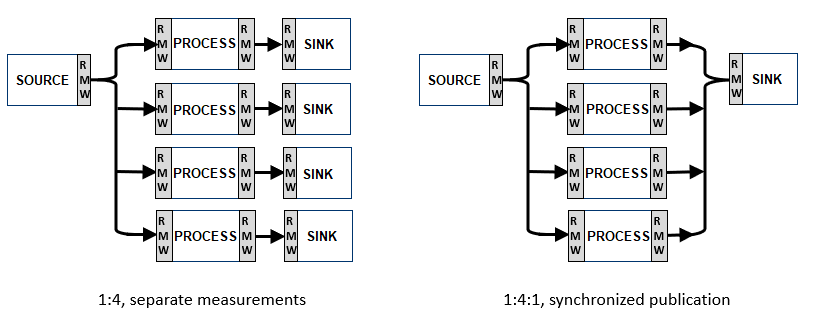
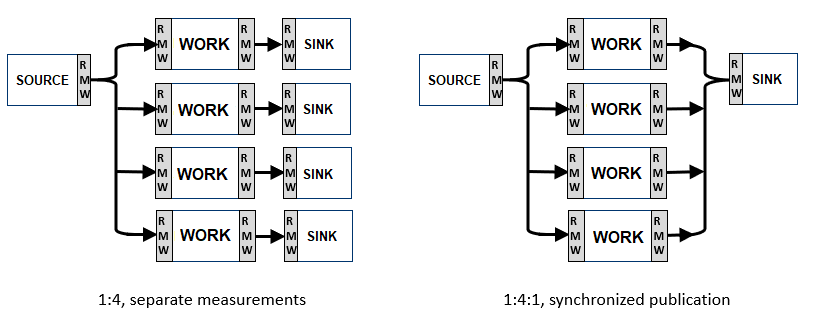
change name of process node to work

diff --git a/mp_latency/launch/mplat_par_3t3.py b/mp_latency/launch/mplat_par_3t3.py
@@ -1,82 +1,82 @@
-# This is a fan-out example of: 1 HEAD --> 3 THRU --> 3 TAIL nodes.
+# This is a fan-out example of: 1 SOURCE --> 3 WORK --> 3 SINK nodes.
 from launch import LaunchDescription
 from launch_ros.actions import Node
 import os
 
 # Set test values here (will need to get cmdLine values or somesuch)
 test_duration = '60'    # duration of test run, in seconds
-pub_frequency = '10'    # pubs per second from HEAD node (float32 value)
+pub_frequency = '10'    # pubs per second from SOURCE node (float32 value)
 rel_type = 'REL'         # reliability type (BE=best effort, anything else is reliable.)
 my_node = 0             # starting node ID
 data_type_suffix = '1kb'    # edit this to change data size in test
-exe_head = 'ipchead_' + data_type_suffix
-exe_thru = 'ipcthru_' + data_type_suffix
-exe_tail = 'ipctail_' + data_type_suffix
-rmw_type = os.environ.get('RMW_IMPLEMENTATION') # RMW type used for test (for TAIL node results)
+exe_source = 'ipcsource_' + data_type_suffix
+exe_work = 'ipcwork_' + data_type_suffix
+exe_sink = 'ipcsink_' + data_type_suffix
+rmw_type = os.environ.get('RMW_IMPLEMENTATION') # RMW type used for test (for SINK node results)
 
 def generate_launch_description():
     return LaunchDescription([
         Node(
             package='mp_latency',
             namespace='ipc_lat',
-            executable=exe_tail,
+            executable=exe_sink,
             output='screen',
-            # TAIL args: testDur, REL, pubFreq, totalNodes, fromTopic, rmwType, myCfgName
+            # SINK args: testDur, REL, pubFreq, totalNodes, fromTopic, rmwType, myCfgName
             arguments=[test_duration, rel_type, pub_frequency, '3', 'pt_profile_topic_1_2', rmw_type, 'h-3p-t1'],
-            name='tail1',
+            name='sink1',
         ),
         Node(
             package='mp_latency',
             namespace='ipc_lat',
-            executable=exe_tail,
+            executable=exe_sink,
             output='screen',
-            # TAIL args: testDur, REL, pubFreq, totalNodes, fromTopic, rmwType, myCfgName
+            # SINK args: testDur, REL, pubFreq, totalNodes, fromTopic, rmwType, myCfgName
             arguments=[test_duration, rel_type, pub_frequency, '3', 'pt_profile_topic_1_3', rmw_type, 'h-3p-t2'],
-            name='tail2',
+            name='sink2',
         ),
         Node(
             package='mp_latency',
             namespace='ipc_lat',
-            executable=exe_tail,
+            executable=exe_sink,
             output='screen',
-            # TAIL args: testDur, REL, pubFreq, totalNodes, fromTopic, rmwType, myCfgName
+            # SINK args: testDur, REL, pubFreq, totalNodes, fromTopic, rmwType, myCfgName
             arguments=[test_duration, rel_type, pub_frequency, '3', 'pt_profile_topic_1_4', rmw_type, 'h-3p-t3'],
-            name='tail3',
+            name='sink3',
         ),
         Node(
             package='mp_latency',
             namespace='ipc_lat',
-            executable=exe_thru,
+            executable=exe_work,
             output='screen',
-            # TEST args: testDur, REL, myNodeId, fromTopic, toTopic
+            # WORK args: testDur, REL, myNodeId, fromTopic, toTopic
             arguments=[test_duration, rel_type, '3', 'pt_profile_topic_0_1', 'pt_profile_topic_1_4'],
-            name='node3'
+            name='proc3'
         ),
         Node(
             package='mp_latency',
             namespace='ipc_lat',
-            executable=exe_thru,
+            executable=exe_work,
             output='screen',
-            # TEST args: testDur, REL, myNodeId, fromTopic, toTopic
+            # WORK args: testDur, REL, myNodeId, fromTopic, toTopic
             arguments=[test_duration, rel_type, '2', 'pt_profile_topic_0_1', 'pt_profile_topic_1_3'],
-            name='node2'
+            name='proc2'
         ),
         Node(
             package='mp_latency',
             namespace='ipc_lat',
-            executable=exe_thru,
+            executable=exe_work,
             output='screen',
-            # TEST args: testDur, REL, myNodeId, fromTopic, toTopic
+            # WORK args: testDur, REL, myNodeId, fromTopic, toTopic
             arguments=[test_duration, rel_type, '1', 'pt_profile_topic_0_1', 'pt_profile_topic_1_2'],
-            name='node1'
+            name='proc1'
         ),
         Node(
             package='mp_latency',
             namespace='ipc_lat',
-            executable=exe_head,
+            executable=exe_source,
             output='screen',
-            # HEAD args: testDur, REL, pubFreq, myNodeId, toTopic
+            # SOURCE args: testDur, REL, pubFreq, myNodeId, toTopic
             arguments=[test_duration, rel_type, pub_frequency, '0', 'pt_profile_topic_0_1'],
-            name='head'
+            name='source'
         )
     ])

diff --git a/mp_latency/launch/mplat_ser_n.py b/mp_latency/launch/mplat_ser_n.py
@@ -4,7 +4,7 @@ import os
 
 # This is used for configuring serial-chain tests with 0--N nodes.
 # Env var are used to set:
-#   RMW, topicNameRoot, thruNodesCount, testDuration, relyType, pubFreq, cfgName, dataSizeSuffix
+#   RMW, topicNameRoot, workNodesCount, testDuration, relyType, pubFreq, cfgName, dataSizeSuffix
 rmw_type = 'rmw_connextdds'                 # rmw selection, default to Connext pro
 if 'RMW_IMPLEMENTATION' in os.environ:
     rmw_type = os.environ['RMW_IMPLEMENTATION']
@@ -13,9 +13,9 @@ topic_base = 'pt_profile_topic'             # root of the topic names used in te
 if 'RTI_MPL_TOPIC_NAME' in os.environ:
     topic_base = os.environ['RTI_MPL_TOPIC_NAME']
 
-thru_nodes_count = '1'
-if 'RTI_MPL_THRU_NODES' in os.environ:
-    thru_nodes_count = os.environ['RTI_MPL_THRU_NODES']
+work_nodes_count = '1'
+if 'RTI_MPL_WORK_NODES' in os.environ:
+    work_nodes_count = os.environ['RTI_MPL_WORK_NODES']
 
 test_duration = '60'
 if 'RTI_MPL_TEST_DURATION' in os.environ:
@@ -37,31 +37,31 @@ size_suffix = '100b'
 if 'RTI_MPL_SIZE_SUFFIX' in os.environ:
     size_suffix = os.environ['RTI_MPL_SIZE_SUFFIX']
 
-exe_head = 'ipchead_' + size_suffix
-exe_thru = 'ipcthru_' + size_suffix
-exe_tail = 'ipctail_' + size_suffix
+exe_source = 'ipcsource_' + size_suffix
+exe_work = 'ipcwork_' + size_suffix
+exe_sink = 'ipcsink_' + size_suffix
 
 
 # build the test per the args
 def generate_launch_description():
     ld = LaunchDescription()
     
-    # add the tail node
-    total_nodes = int(thru_nodes_count) + 2
-    tail_node_topic_name = topic_base + '_' + str(total_nodes-2) + '_' + str(total_nodes-1)
-    tail_node = Node(
+    # add the sink node
+    total_nodes = int(work_nodes_count) + 2
+    sink_node_topic_name = topic_base + '_' + str(total_nodes-2) + '_' + str(total_nodes-1)
+    sink_node = Node(
         package='mp_latency',
         namespace='ipc_lat',
-        executable=exe_tail,
+        executable=exe_sink,
         output='screen',
-        arguments=[test_duration, rely_type, pub_frequency, str(total_nodes), tail_node_topic_name, rmw_type, config_name],
-        name='tail'
+        arguments=[test_duration, rely_type, pub_frequency, str(total_nodes), sink_node_topic_name, rmw_type, config_name],
+        name='sink'
     )
-    ld.add_action(tail_node)
+    ld.add_action(sink_node)
 
-    # add the thru nodes
+    # add the work nodes
     for n in range(1, (total_nodes - 1)):
-        this_node_name = 'thru{}'.format(str(n))
+        this_node_name = 'work{}'.format(str(n))
         from_node_topic_name = '{}_{}_{}'.format(topic_base, str(n-1), str(n))
         to_node_topic_name = '{}_{}_{}'.format(topic_base, str(n), str(n+1))
         
@@ -69,23 +69,23 @@ def generate_launch_description():
             Node(
                 package='mp_latency',
                 namespace='ipc_lat',
-                executable=exe_thru,
+                executable=exe_work,
                 output='screen',
                 arguments=[test_duration, rely_type, str(n), from_node_topic_name, to_node_topic_name],
                 name=this_node_name
             )
         )
     
-    # add the head node
-    head_node_topic_name = '{}_0_1'.format(topic_base)
+    # add the source node
+    source_node_topic_name = '{}_0_1'.format(topic_base)
     ld.add_action(
         Node(
             package='mp_latency',
             namespace='ipc_lat',
-            executable=exe_head,
+            executable=exe_source,
             output='screen',
-            arguments=[test_duration, rely_type, pub_frequency, '0', head_node_topic_name, rmw_type],
-            name='head'
+            arguments=[test_duration, rely_type, pub_frequency, '0', source_node_topic_name, rmw_type],
+            name='source'
         )
      )
 

diff --git a/mp_latency/launch/mplat_ser2.py b/mp_latency/launch/mplat_ser2.py
@@ -1,5 +1,5 @@
 # This is an example of a more verbose in-series test description
-# If testing arbitrary lengths of THRU node chains, use mplat_ser_n.py 
+# If testing arbitrary lengths of WORK node chains, use mplat_ser_n.py 
 from launch import LaunchDescription
 from launch_ros.actions import Node
 import os
@@ -19,9 +19,9 @@ if 'RTI_MPL_RELY' in os.environ:
 
 my_node = 0                 # starting node ID
 data_type_suffix = '1kb'    # edit this to change data size in test
-exe_head = 'ipchead_' + data_type_suffix
-exe_thru = 'ipcthru_' + data_type_suffix
-exe_tail = 'ipctail_' + data_type_suffix
+exe_source = 'ipcsource_' + data_type_suffix
+exe_work = 'ipcwork_' + data_type_suffix
+exe_sink = 'ipcsink_' + data_type_suffix
 rmw_type = os.environ.get('RMW_IMPLEMENTATION') # RMW type used for test (for TAIL node results)
 
 def generate_launch_description():
@@ -29,16 +29,16 @@ def generate_launch_description():
         Node(
             package='mp_latency',
             namespace='ipc_lat',
-            executable=exe_tail,
+            executable=exe_sink,
             output='screen',
             # TAIL args: testDur, REL, pubFreq, totalNodes, fromTopic, rmwType, myCfgName
             arguments=[test_duration, rel_type, pub_frequency, '4', 'pt_profile_topic_2_3', rmw_type, 'h-2s-t'],
-            name='tail',
+            name='sink',
         ),
         Node(
             package='mp_latency',
             namespace='ipc_lat',
-            executable=exe_thru,
+            executable=exe_work,
             output='screen',
             # TEST args: testDur, REL, myNodeId, fromTopic, toTopic
             arguments=[test_duration, rel_type, '1', 'pt_profile_topic_0_1', 'pt_profile_topic_1_2'],
@@ -47,7 +47,7 @@ def generate_launch_description():
         Node(
             package='mp_latency',
             namespace='ipc_lat',
-            executable=exe_thru,
+            executable=exe_work,
             output='screen',
             # TEST args: testDur, REL, myNodeId, fromTopic, toTopic
             arguments=[test_duration, rel_type, '2', 'pt_profile_topic_1_2', 'pt_profile_topic_2_3'],
@@ -56,10 +56,10 @@ def generate_launch_description():
         Node(
             package='mp_latency',
             namespace='ipc_lat',
-            executable=exe_head,
+            executable=exe_source,
             output='screen',
             # HEAD args: testDur, REL, pubFreq, myNodeId, toTopic
             arguments=[test_duration, rel_type, pub_frequency, '0', 'pt_profile_topic_0_1'],
-            name='head'
+            name='source'
         )
     ])

diff --git a/mp_latency/src/IpcWork.cpp b/mp_latency/src/IpcWork.cpp
@@ -9,13 +9,13 @@
 using namespace std::chrono_literals;
 using std::placeholders::_1;
 
-class IpcProcess : public rclcpp::Node
+class IpcWork : public rclcpp::Node
 {
   public:
     // TEST node args testDuration, useReliable, myNodeId, fromTopic, toTopic
-    IpcProcess(uint32_t testDuration, bool useReliable, uint32_t myNodeId, 
+    IpcWork(uint32_t testDuration, bool useReliable, uint32_t myNodeId, 
       std::string fromTopic, std::string toTopic)
-    : Node("ipc_process")
+    : Node("ipc_work")
     {
       // init the topic names per the node number
       node_number = myNodeId;
@@ -27,18 +27,18 @@ class IpcProcess : public rclcpp::Node
       if(useReliable) {
         publisher_ = this->create_publisher<MP_DATA_TYPE>(toTopic, rclcpp::QoS(1).reliable());
         subscription_ = this->create_subscription<MP_DATA_TYPE>(
-          fromTopic, rclcpp::QoS(1).reliable(), std::bind(&IpcProcess::topic_callback, this, _1));
+          fromTopic, rclcpp::QoS(1).reliable(), std::bind(&IpcWork::topic_callback, this, _1));
       }
       else {
         publisher_ = this->create_publisher<MP_DATA_TYPE>(toTopic, rclcpp::QoS(1).best_effort());
         subscription_ = this->create_subscription<MP_DATA_TYPE>(
-          fromTopic, rclcpp::QoS(1).best_effort(), std::bind(&IpcProcess::topic_callback, this, _1));
+          fromTopic, rclcpp::QoS(1).best_effort(), std::bind(&IpcWork::topic_callback, this, _1));
       }
 
       // create timer to check when to quit
       timer_ = this->create_wall_timer(
           std::chrono::milliseconds(654),
-          std::bind(&IpcProcess::timer_callback, this));
+          std::bind(&IpcWork::timer_callback, this));
 
     }
 
@@ -114,7 +114,7 @@ int main(int argc, char * argv[])
   }
 
   rclcpp::init(argc, argv);
-  rclcpp::spin(std::make_shared<IpcProcess>(testDuration, useReliable, myNodeId, fromTopic, toTopic));
+  rclcpp::spin(std::make_shared<IpcWork>(testDuration, useReliable, myNodeId, fromTopic, toTopic));
   rclcpp::shutdown();
   return 0;
 }

diff --git a/README.md b/README.md
@@ -5,7 +5,7 @@ This is a configurable ROS2 system latency test, built using small ROS2 componen
 
 This test will build 3 component types:
  - **ipcsource**: Publishes the build-selected data type to a named topic, at a given rate & reliability.  The sample is timestamped before publication.
- - **ipcprocess**: Receives a sample from a named topic, adds timestamps to the sample then re-publishes on a named topic.
+ - **ipcwork**: Receives a sample from a named topic, adds timestamps to the sample then re-publishes on a named topic.
  - **ipcsink**: Receives a sample from a named topic, timestamps then computes latency at each step, writes results to:
     - A sequential log file for that test run.
     - A histogram file for that test run.
@@ -58,7 +58,7 @@ A single test configuration can be run using a ROS2 launch file to launch the de
 test configuration: quantity and type of each test process.   Example launch files are
 provided that use environment variables to set the command line options, or these may be
 set directly in the launch file.  
-For example, a test that runs a SOURCE-->PROCESS-->SINK test configuration using the 100 byte 
+For example, a test that runs a SOURCE-->WORK-->SINK test configuration using the 100 byte 
 data size may be launch with the example launch file as:  
 ```bash
   ros2 launch mp_latency/launch/mplat_ser_n.py
@@ -77,7 +77,7 @@ The command line arguments (and default values) for each application are:
  - `myNodeId` ID number for this SOURCE node (0)
  - `toTopic` Named topic to publish ("fromSource")
 
-**ipcprocess**: 5 args:
+**ipcwork**: 5 args:
  - `testDuration` in seconds, to run the test then exit (default: 60)
  - `relType` reliability, "REL" or "BE" (best effort)
  - `myNodeId` ID number for this node (1)
@@ -101,10 +101,10 @@ recommended to create a results directory and launch the test from there.
 If each component is launched on a ROS2 command line with no arguments, such as:  
 ```bash
   ros2 run mp_latency ipcsource_1kb &
-  ros2 run mp_latency ipcprocess_1kb &
+  ros2 run mp_latency ipcwork_1kb &
   ros2 run mp_latency ipcsink_1kb &
 ```
-it will run a SOURCE-->PROCESS-->SINK latency test using default values, and write the results to files.  
+it will run a SOURCE-->WORK-->SINK latency test using default values, and write the results to files.  
 
 # Output Data Files
 3 File types are produced, all are in .csv (comma-separated values) format for easy opening with a spreadsheet program.  
